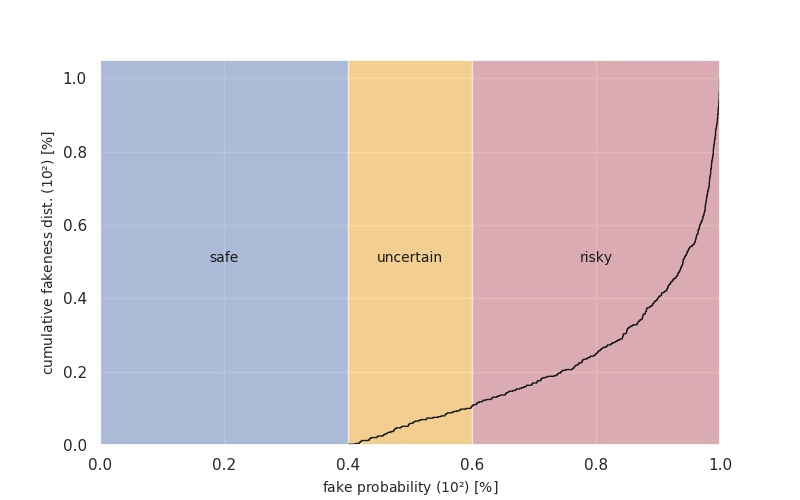
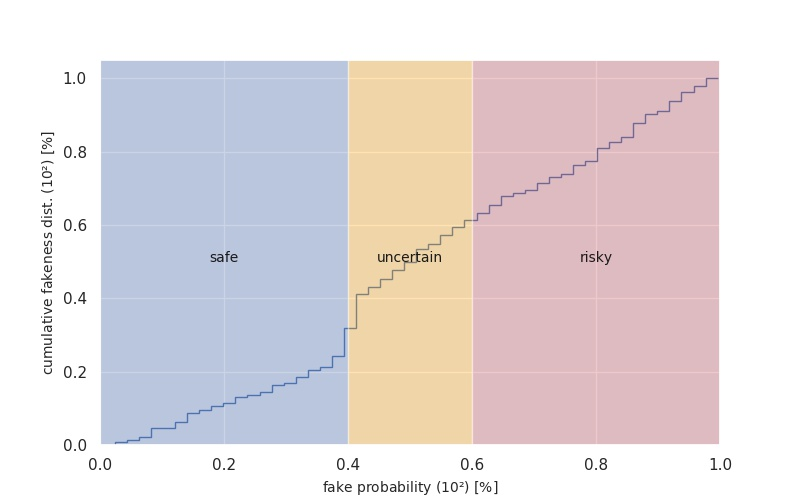
Second commit. Minor modifications in content and structure of the report.

diff --git a/templates/report.html b/templates/report.html
@@ -14,7 +14,13 @@
       <h1>Análisis de legitimidad - {{ title }}</h1>
       <h1>{{ engine }}</h1>
       <address>
-        Equipo de Ideas Locas CDCO. Telefónica Digital España S.A.
+        Equipo de Ideas Locas CDCO. 
+        Telefónica Digital España S.A.
+        Distrito Telefónica - Edificio Oeste 1, Planta 8.
+        Ronda de la Comunicación, s/n.
+        28050 Madrid, España.
+        Teléfono de contacto: +34 XXX XX XX XX
+        Mail de contacto: johndoe@example.com
       </address>
     </article>
 
@@ -33,7 +39,6 @@
       <ul>
         <li><a href="#intro-title"></a></li>
         <li><a href="#analysis-title"></a></li>
-        <li><a href="#conclusion-title"></a></li>
       </ul>
     </article>
 
@@ -46,7 +51,7 @@
       <section>
         <p>
           Distorsionar información haciendo uso de tecnologías basadas en Machine Learning para la creación de Deep Fakes nunca
-          ha sido más sencilla. Esta capacidad hace posible crear audio y video de personas reales que dicen y hacen 
+          ha sido más sencillo. Esta capacidad hace posible crear audio y video de personas reales que dicen y hacen 
           cosas que esos mismos sujetos nunca dijeron o hicieron. Las técnicas de Machine Learning son cada vez más
           sofisticadas, haciendo estas falsificaciones cada vez más realistas y cada vez más resistentes a la detección. 
           Estas tecnologías dedicadas al engaño se difuenden rápidamente entre la sociedad, poniéndola en manos de actores
@@ -54,7 +59,8 @@
         </p>
         <p>
           Actualmente, tanto las personas como las empresas se enfrentan a nuevas formas de explotación, intimidación, 
-          sabotaje y descrédito personal. Los riesgos para nuestra democracia y para la seguridad nacional también son profundos. 
+          sabotaje y descrédito personal. Este tipo de tecnologías también suponen un riesgo para nuestra democracia y
+           para nuestra seguridad nacional. 
         </p>
         <p>
           Telefónica Digital España S.A. está concienciada con los principios éticos del uso de la Inteligencia Artificial
@@ -62,11 +68,6 @@
           Por ello, el Departamento de Ideas Locas CDCO tiene como objetivo proporcionar un servicio modular de detección de 
           contenido no legítimo haciendo uso del estado del arte en referencia a las herramientas de detección de alteración de 
           recursos multimedia.
-        </p>
-            
-        <p>
-          El presente reporte fue generado en <strong>Distrito Telefónica - Edificio Oeste 1, Planta 8 
-            - Ronda de la Comunicación, s/n - 28050 Madrid, ESPAÑA</strong> en la siguiente fecha y hora <strong>{{ date }} CET</strong>.
         </p>
 
         
@@ -88,7 +89,7 @@
             <li><strong>FaceForensics++: Learning to Detect Manipulated Facial Images</strong></li>
             <p><em>Andreas Rössler and Davide Cozzolino and Luisa Verdoliva and Christian Riess and Justus Thies and Matthias Niessner. 
               International Conference on Computer Vision (ICCV). 2019.</em></p>
-            FaceForensics ++ es un conjunto de datos forenses que consta de 1000 secuencias de video originales manipuladas con
+            FaceForensics ++ es un conjunto de datos forenses que consta de 1,000 secuencias de video originales manipuladas con
             cuatro métodos automatizados de manipulación facial: DeepFakes, Face2Face, FaceSwap y NeuralTextures. 
             <p>Los datos provienen de 977 videos de YouTube y todos los videos contienen una cara frontal rastreable en su 
               mayoría sin oclusiones, lo que permite que los métodos automáticos de manipulación generen falsificaciones realistas.</p>
@@ -112,19 +113,19 @@
           de devolver falsos positivos o falsos negativos a la hora de determinar su legitimidad. 
         </p>
         <p>
-          Se ha calculado una <strong>tasa de confianza</strong> en base al 
-          número de frames etiquetados como sospechosos con respecto a la totalidad si han arrojado <strong>una probabilidad superior al 60%</strong>. Por otro lado, 
-          dado el alto número de frames analizados en cada vídeo, se ha decidido definir el siguiente criterio estadístico conservador para catalogar
-          la naturaleza del recurso multimedia:
+          Se ha calculado una <strong>tasa de confianza</strong> en base al número de frames etiquetados como sospechosos con respecto a la totalidad
+           si han arrojado <strong>una probabilidad superior al 60%</strong>. Por otro lado, dado el alto número de frames analizados en cada vídeo, 
+           se ha decidido definir el siguiente criterio estadístico conservador para catalogar la naturaleza del recurso multimedia:
           <ul>
             <li><strong>Recurso Seguro [safe]</strong></li>
-            Si el porcentaje de frames analizados en el vídeo por encima de la tasa de confianza es <strong>inferior al 30%</strong>, podremos adelantar que es poco probable 
-            que el vídeo haya sido alterado.
+            Si el porcentaje de frames analizados en el vídeo por encima de la tasa de confianza es <strong>inferior al 30%</strong>, 
+            podremos adelantar que es poco probable que el vídeo haya sido alterado.
             <li><strong>Recurso Incierto [uncertain]</strong></li>
-            En el caso de que porcentaje de frames analizados en el vídeo por encima de esa tasa de confianza esté <strong>en el intervalo [30%, 40%)</strong>,
-            catalogaremos al recurso como incierto.
+            En el caso de que porcentaje de frames analizados en el vídeo por encima de esa tasa de confianza esté <strong>en el 
+              intervalo [30%, 40%)</strong>, catalogaremos al recurso como incierto.
             <li><strong>Recurso No Seguro [risky]</strong></li>
-            Para un porcentaje de frames sobre la tasa de confianza <strong>igual o superior al 40%</strong>, se clasifica el recurso como no seguro o fake. 
+            Para un porcentaje de frames sobre la tasa de confianza <strong>igual o superior al 40%</strong>, se clasifica el recurso
+             como no seguro o fake. 
           </ul>
         </p>
       </section>
@@ -170,7 +171,7 @@
           {{ proba_table }}
         </p>
         <p>
-          En total se han analizado <strong>{{ num_frames }} frames</strong>. La mediana en la tasa de no legitimidad reportada es de
+          En total se han analizado <strong>{{ num_frames }} frames</strong>. La <strong>mediana</strong> en la tasa de no legitimidad reportada es de
         <strong>{{ median }}</strong>.
         </p>
         <p>
@@ -178,10 +179,8 @@
         El <strong>intervalo intercuartílico 25%-75%</strong> cubre las scores <strong>{{ iqr }}</strong>.
         </p>
 
-        
-
           <div>
-            <img src="file:///home/ideaslocascdo/deepfakes/mongodb-report/templates/genuineness.jpg" alt="" style="width: 100%; height: 100%" class="center"/>
+            <img src="file:///home/ideaslocascdo/deepfakes/mongodb-report/templates/linearplot.jpg" alt="" style="width: 100%; height: 100%" class="center"/>
             <figcaption>Fig. 1 - Evolución de la probabilidad de falsedad de los frames analizados (izquierda) y <em>violin plot</em> con mediana y valores extremos (derecha)</figcaption>
           </div>
           <div>
@@ -190,12 +189,10 @@
           </div>
   
         <p>
-          En la Fig. 1 se incluye la evolución de la probabilidad de falsedad predicha a lo largo de todo el recurso. Junto con
-          el perfil lineal de la evolución, tambień se ofrece la distribución de la score más probable en el análisis. En la Fig. 2 se facilita el histograma
-          acumulado de las probabilidades de falsedad que ayuda a visualizar la concentración de los scores obtenidos por <em>{{ engine }}</em>.
+          En la <em>Figura 1</em> se incluye la evolución de la probabilidad de falsedad predicha a lo largo de todo el recurso.
         </p>
         <p>
-         En la Fig. 2 se facilita el histograma acumulado de las probabilidades de falsedad que ayuda a visualizar la concentración de los
+         En la Figura 2 se facilita el histograma acumulado de las probabilidades de falsedad que ayuda a visualizar la concentración de los
           scores obtenidos por <em>{{ engine }}</em>.
         </p>
 
@@ -219,57 +216,46 @@
       <h2 id="chapter-title">Informe Ejecutivo</h2>
     </article>
 
-    <article id="intro">
-      <h2 id="intro-title">Introducción</h2>
-      <section>
-
-        <p>
-          Este informe ejecutivo fue generado en <strong>Distrito Telefónica - Edificio Oeste 1, Planta 8 
-            - Ronda de la Comunicación, s/n - 28050 Madrid, ESPAÑA</strong> en la siguiente fecha y hora <strong>{{ date }} CET</strong>.
-        </p>
-    
+        
       <article id="analysis">
         <h2 id="analysis-title">Auditoría del recurso</h2>
         <section>
           <p>
             El recurso analizado se almacenó en la base de datos del servicio con los siguientes detalles y fue etiquetado 
-            como contenido <strong>{{ is_fake }}</strong> por el algoritmo {{ engine }}
+            como contenido <strong>{{ is_fake }}</strong> por el algoritmo {{ engine }}.
           </p>
           <p>
             {{ main_table }}
           </p>
           
           <p>
-            En total se analizaron analizado <strong>{{ num_frames }} frames</strong>. La mediana en la tasa de no legitimidad reportada es de
-          <strong>{{ median }}</strong>.
+            En total se analizaron analizado <strong>{{ num_frames }} frames</strong>. La <strong>mediana</strong> en la tasa
+             de no legitimidad reportada es de <strong>{{ median }}</strong>.
           </p>
-          <p>
-            La <strong>media</strong> y <strong>desviación típica</strong> de esa probabilidad está en el intervalo <strong>{{ mean }} <span>&#177;</span> {{ std }}</strong>. 
-          El <strong>intervalo intercuartílico 25%-75%</strong> cubre las scores <strong>{{ iqr }}</strong>.
-          </p>
-  
+          
             <div>
-              <img src="file:///home/ideaslocascdo/deepfakes/mongodb-report/templates/genuineness.jpg" alt="" style="width: 100%; height: 100%" class="center"/>
-              <figcaption>Fig. 1 - Evolución de la probabilidad de falsedad de los frames analizados (izquierda) y <em>violin plot</em> con mediana y valores extremos (derecha)</figcaption>
+              <img src="file:///home/ideaslocascdo/deepfakes/mongodb-report/templates/linearplot.jpg" alt="" style="width: 100%; height: 100%" class="center"/>
+              <figcaption>Fig. 1 - Evolución de la probabilidad de falsedad de los frames analizados (izquierda) y <em>violin plot</em> 
+                con mediana y valores extremos (derecha)</figcaption>
             </div>
             <div>
-              <img src="file:///home/ideaslocascdo/deepfakes/mongodb-report/templates/histogram.jpg" alt="" style="width: 100%; height: 100%" class="center"/>
-              <figcaption>Fig. 2 - Histograma acumulado de probabilidades de no legitimidad para los frames analizados del recurso.</figcaption>
+              <img src="file:///home/ideaslocascdo/deepfakes/mongodb-report/templates/pie.jpg" alt="" style="width: 100%; height: 100%" class="center"/>
+              <figcaption>Fig. 2 - Diagrama de sectores con los porcentajes de frames analizados seguros ({{ pie_safe }}%), 
+                inciertos ({{ pie_warning }}%) y fake ({{ pie_risky }}%).</figcaption>
             </div>
-  
-        </p>
+            <p>
+              De acuerdo con las evidencias presentadas en el este informe ejecutivo - desglosadas en mayor detalle en el informe técnico 
+              - consideramos que el recurso <strong>{{ title }}</strong>, analizado mediante el motor <em>{{ engine }}</em> <strong>presenta 
+                una probabilidad {{ conclusion }}</strong> de ser un recurso no legítimo.
+            </p>
+            <p>
+              <em>
+                Este informe ejecutivo fue generado en <strong>Distrito Telefónica - Edificio Oeste 1, Planta 8 
+                  - Ronda de la Comunicación, s/n - 28050 Madrid, ESPAÑA</strong> con fecha y hora <strong>{{ date }} CET</strong>.
+              </em>
+            </p>
         </section>
       </article>
 
-      <article id="conclusion">
-        <h2 id="conclusion-title">Conclusión</h2>
-        <section>
-          <p>
-            De acuerdo con las evidencias presentadas en el este informe ejecutivo - desglosadas en mayor detalle en el informe técnico - consideramos que el recurso 
-            <strong>{{ title }}</strong>, analizado mediante el motor <em>{{ engine }}</em> <strong>presenta una probabilidad 
-            {{ conclusion }}</strong> de ser un recurso no legítimo.
-          </p>
-        </section>
-      </article>
   </body>
 </html>

diff --git a/templates/report.css b/templates/report.css
@@ -71,7 +71,7 @@
   margin: 0; }
 
 @page chapter {
-  background: #0F6475;
+  background: #DFDFDF;
   margin: 0;
   @top-left {
     content: none; }
@@ -87,9 +87,9 @@ html {
   font-weight: 300;
   line-height: 1.5; }
   html body h1 {
-    color: #F4F4F4;
-    font-size: 38pt;
-    margin: 5cm 2cm 0 2cm;
+    color: #DFDFDF;
+    font-size: 35pt;
+    margin: 1.5cm 2cm 0 2cm;
     page: no-chapter;
     width: 100%; }
   html body h2, html body h3, html body h4 {
@@ -112,7 +112,7 @@ html {
     html body article#cover address {
       background: #1B8697;
       flex: 1 50%;
-      margin: 0 -2cm;
+      margin: 0 -1cm;
       padding: 1cm 0;
       white-space: pre-wrap; }
       html body article#cover address:first-of-type {

diff --git a/dataframe.py b/dataframe.py
@@ -5,7 +5,7 @@ from database import db_read
 import os
 import matplotlib.pyplot as plt
 import seaborn as sns
-
+import numpy as np
 
 
 def df_builder(query, collector):
@@ -61,7 +61,7 @@ def probs_render(probs):
     sns.set(color_codes=True)
 
     f, (a1, a2) = plt.subplots(1, 2, 
-                               gridspec_kw={'width_ratios': [5, 1], 'wspace': 0.01},
+                               gridspec_kw={'width_ratios': [5, 2], 'wspace': 0.03},
                                sharey=True)
 
     # Lineplot 
@@ -80,24 +80,20 @@ def probs_render(probs):
     f.tight_layout()
     # save the figure
     directory = "templates"
-    f.savefig(os.path.join(directory, "genuineness.jpg"), quality=95)
+    f.savefig(os.path.join(directory, "linearplot.jpg"), quality=95)
 
 
 
 def histogram_render(probs):
 
     # Definimos el número de bins 
-    n_bins = 1000
+    n_bins = 50
     # Cogemos las probabilidades
     x = probs["probability"]
 
     fig, ax = plt.subplots(figsize=(8, 5))
 
-    # color the intervals
-    ax.axvspan(xmin=0, xmax=0.4, ymin=0, ymax=1.1, facecolor='b', alpha=0.4)
-    ax.axvspan(xmin=0.4, xmax=0.6, ymin=0, ymax=1.1, facecolor='orange', alpha=0.4)
-    ax.axvspan(xmin=0.6, xmax=1.0, ymin=0, ymax=1.1, facecolor='r', alpha=0.4)
-
+   
     # Add labels to the plot
     style = dict(size=10, color='k')
 
@@ -107,8 +103,14 @@ def histogram_render(probs):
 
     # plot the cumulative histogram
     n, bins, patches = ax.hist(x, n_bins, density=True, histtype='step',
-                           cumulative=True, color='k')
+                           cumulative=True)
     patches[0].set_xy(patches[0].get_xy()[:-1])
+
+    # color the intervals
+    ax.axvspan(xmin=0, xmax=0.4, ymin=0, ymax=1.1, facecolor='b', alpha=0.3)
+    ax.axvspan(xmin=0.4, xmax=0.6, ymin=0, ymax=1.1, facecolor='orange', alpha=0.3)
+    ax.axvspan(xmin=0.6, xmax=1.0, ymin=0, ymax=1.1, facecolor='r', alpha=0.3)
+
 
     # tidy up the figure
     ax.grid(True)    
@@ -118,5 +120,36 @@ def histogram_render(probs):
     # save the figure
     directory = "templates"
     plt.savefig(os.path.join(directory, "histogram.jpg"), quality=95)
+
+def pie_render(probs):
+
+    # Pie chart
+    labels = ['safe', 'uncertain', 'risky']
+    no_safe = np.where(probs["probability"] < 0.4)[0].__len__()
+    no_uncertain = np.where((probs["probability"] >= 0.4) &  (probs["probability" ]< 0.6))[0].__len__()
+    no_risky = np.where(probs["probability"] >= 0.6)[0].__len__()
+
+    frames = no_safe + no_uncertain + no_risky
+    
+    sizes = [no_safe*100/frames, no_uncertain*100/frames, no_risky*100/frames]
+    
+    # only "explode" the 3rd slice (i.e. 'risky')
+    explode = (0, 0, 0.1)
+
+    colors = ["#22bb33", "#f0ad4e", "#bb2124"]
+
+    fig, ax = plt.subplots()
+    ax.pie(sizes, explode=explode, labels=labels, colors=colors, autopct='%1.1f%%',
+        shadow=True, startangle=90)
+    
+    # Equal aspect ratio ensures that pie is drawn as a circle
+    ax.axis('equal')
+    plt.tight_layout()
+    # save the figure
+    directory = "templates"
+    plt.savefig(os.path.join(directory, "pie.jpg"), quality=95)
+
+    return sizes
+
 
 

diff --git a/html2pdf.py b/html2pdf.py
@@ -2,7 +2,7 @@
 from jinja2 import Environment, FileSystemLoader
 from weasyprint import HTML
 from datetime import datetime
-from dataframe import df_builder, probs_render, histogram_render
+from dataframe import df_builder, probs_render, histogram_render, pie_render
 
 env = Environment(loader=FileSystemLoader('templates'))
 template = env.get_template("report.html")
@@ -19,6 +19,11 @@ def render(query, collector):
         conclusion = "moderada"
     else:
         conclusion = "baja"
+    
+    # Creamos y almacenamos el pie chart de legitimidad
+    sizes = pie_render(probs)
+
+    # Definimos un diccionario con las variables a pasar al html de cara a la renderización
 
     template_vars = {"title" : query["filename"],
                     "main_table": df.to_html(),
@@ -37,12 +42,16 @@ def render(query, collector):
                            str(round(df_proba["probability"].T["75%"], 3)),
                     "num_frames": df_proba["probability"].T["count"].astype(int),
                     "date": ahora,
+                    "pie_safe": round(sizes[0], 1),
+                    "pie_warning": round(sizes[1], 1),
+                    "pie_risky": round(sizes[2], 1), 
                     "conclusion": conclusion
                     }
     
-    #Creamos y almacenamos los plots de la evolución de legitimidad
+    # Creamos y almacenamos los plots de la evolución de legitimidad
     probs_render(probs)
     histogram_render(probs)
+    
     # Renderizamos el pdf
     html_out = template.render(template_vars)
 
@@ -50,7 +59,7 @@ def render(query, collector):
     
 
 if __name__=="__main__":
-    query = {"filename": "Bill Hader channels Tom Cruise [DeepFake].mp4"}
+    query = {"filename": "Taxi Driver starring Al Pacino [DeepFake].mp4"}
     collector = "faceforensics"
 
     render(query, collector)
